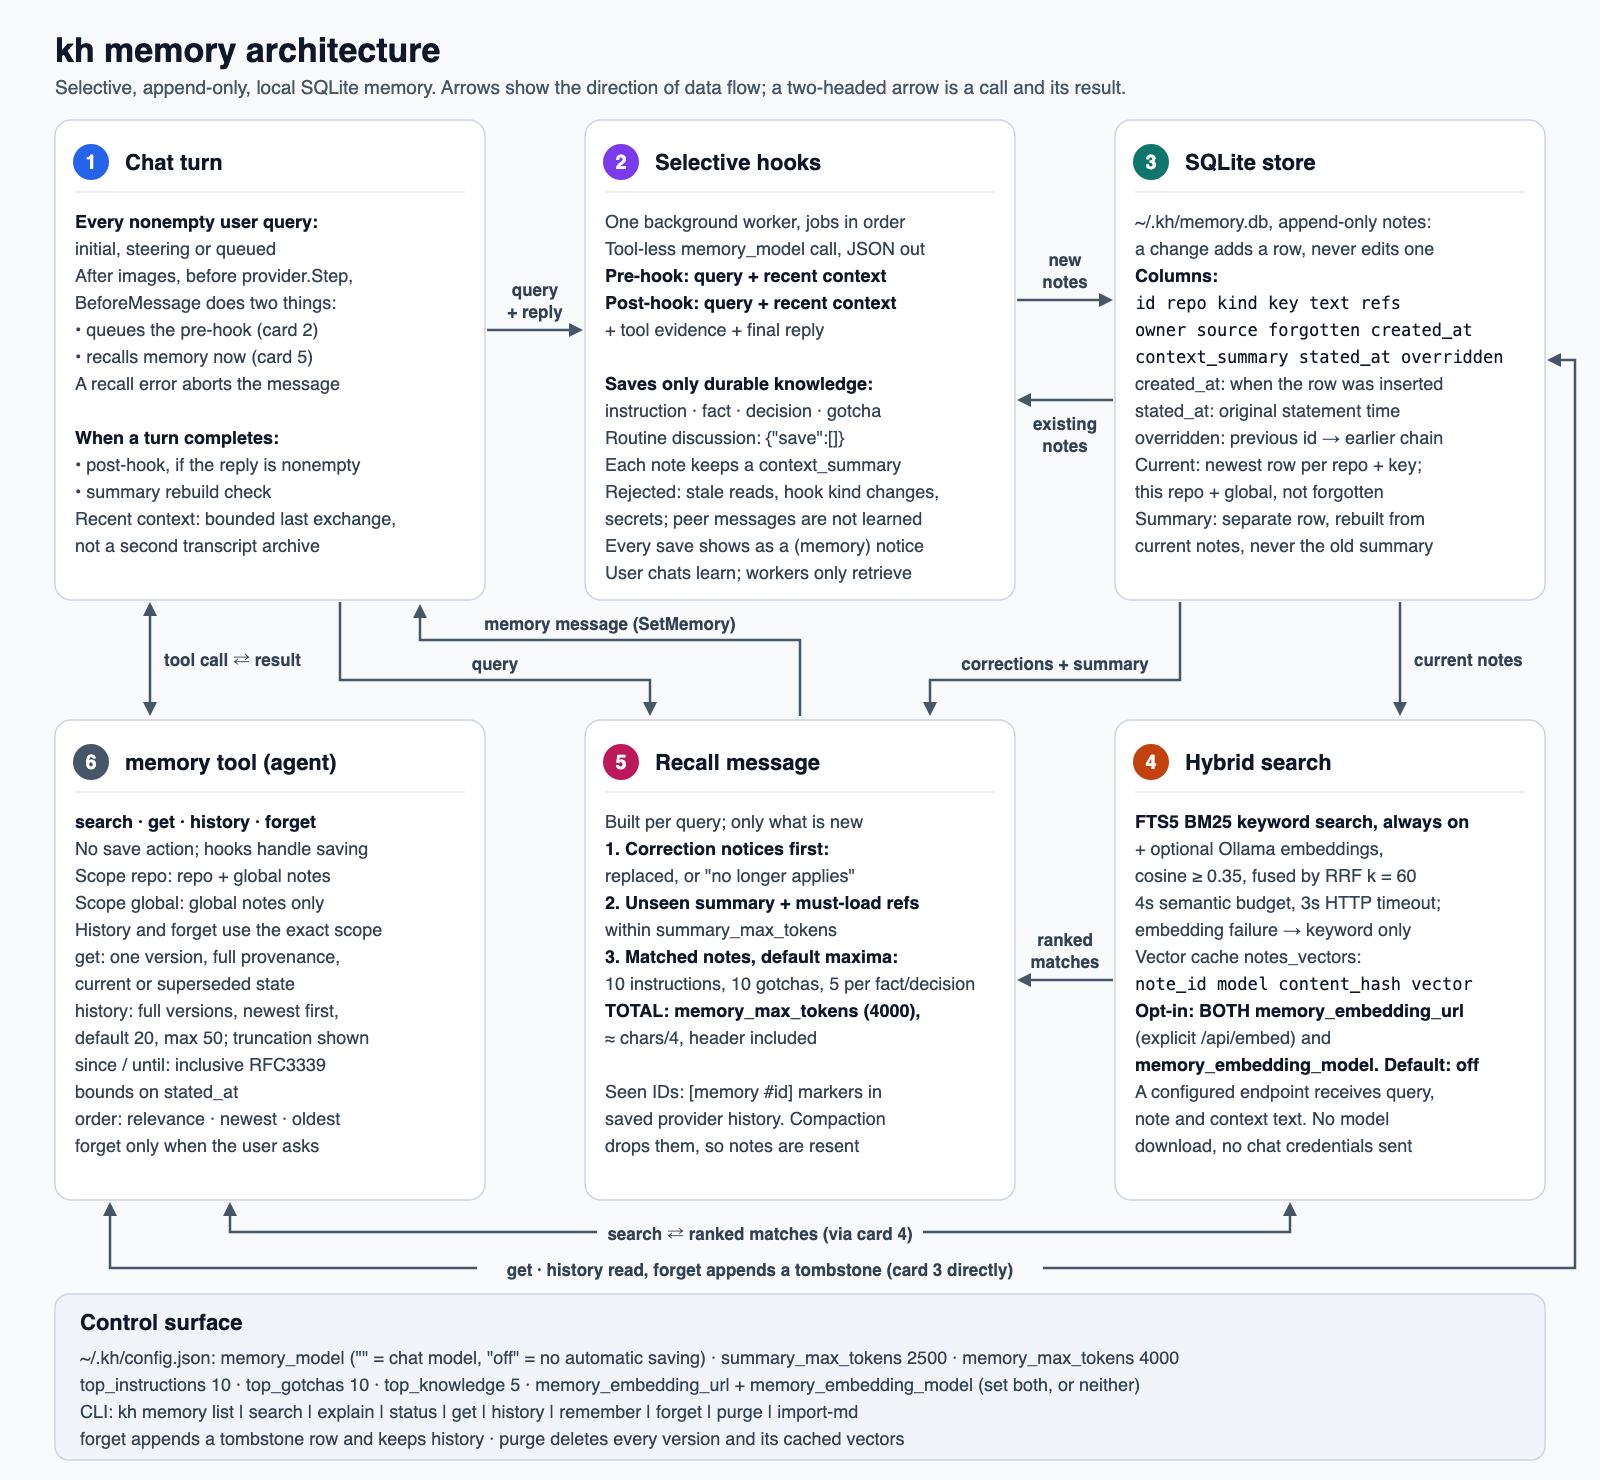
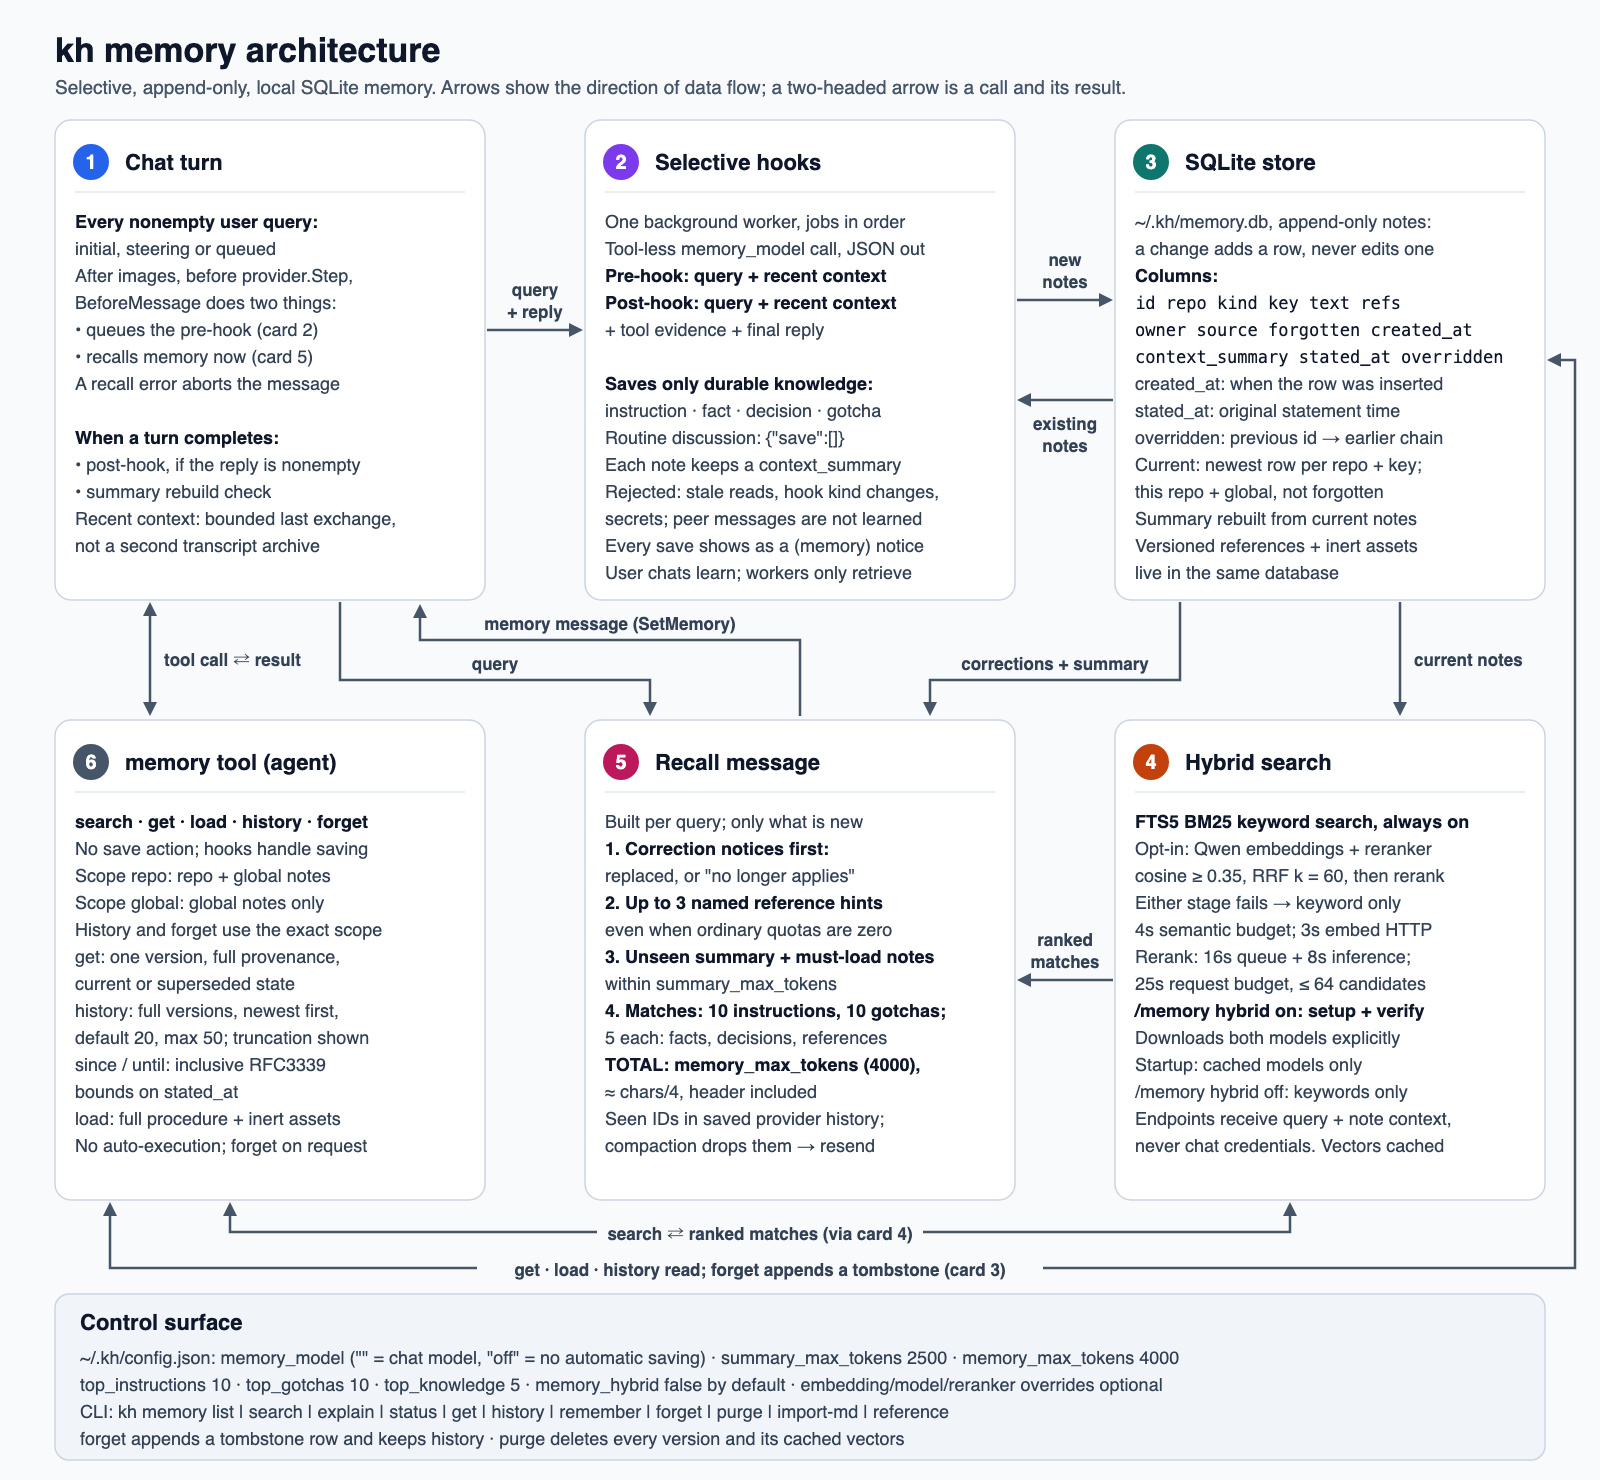
Fix hybrid worker bursts and refresh docs and release notes

diff --git a/internal/tools/test/sandbox_memory_test.go b/internal/tools/test/sandbox_memory_test.go
@@ -39,6 +39,85 @@ func TestSandboxMemoryHelper(t *testing.T) {
 	fmt.Println("MEMORY_WRITE_OK")
 }
 
+func TestSandboxHybridAlwaysWritable(t *testing.T) {
+	if runtime.GOOS != "darwin" {
+		t.Skip("sandbox is macOS only")
+	}
+	if out, err := exec.Command("/usr/bin/sandbox-exec", "-p", "(version 1)(allow default)", "/usr/bin/true").CombinedOutput(); err != nil {
+		t.Skipf("sandbox-exec cannot start in this environment: %v: %s", err, out)
+	}
+	for _, mode := range []string{"new-directory", "existing-directory", "symlink-directory"} {
+		t.Run(mode, func(t *testing.T) {
+			t.Chdir(t.TempDir())
+			t.Setenv("HOME", t.TempDir())
+			dir := config.Dir()
+			if mode == "existing-directory" {
+				if err := os.Mkdir(dir, 0o700); err != nil {
+					t.Fatal(err)
+				}
+			}
+			if mode == "symlink-directory" {
+				if err := os.Symlink(t.TempDir(), dir); err != nil {
+					t.Fatal(err)
+				}
+			}
+			cfg := config.Defaults
+			cfg.Auto, cfg.Sandbox, cfg.Writable = true, true, []string{}
+			root := filepath.Join(dir, "hybrid")
+			// Exercise runtime startup and setup writes, with no model downloads.
+			for _, name := range []string{"runtime.lock", "runtime.log", "venv/bin/python", "cache/model/weights"} {
+				path := filepath.Join(root, name)
+				command := "mkdir -p " + strconv.Quote(filepath.Dir(path)) + " && printf created > " + strconv.Quote(path)
+				out, err := bashWithSandbox(t, cfg, command)
+				data, readErr := os.ReadFile(path)
+				if err != nil || readErr != nil || string(data) != "created" {
+					t.Fatalf("sandbox blocked hybrid %s: %v: %s; read %q: %v", name, err, out, data, readErr)
+				}
+			}
+			// Existing and new siblings remain protected, including prefix matches.
+			for _, name := range []string{"config.json", "auth.json", "other", "hybrid-backup"} {
+				path := filepath.Join(dir, name)
+				if err := os.WriteFile(path, []byte("unchanged"), 0o600); err != nil {
+					t.Fatal(err)
+				}
+				for _, target := range []string{path, path + ".new"} {
+					out, err := bashWithSandbox(t, cfg, "printf modified > "+strconv.Quote(target))
+					if err != nil || !strings.Contains(out, "Operation not permitted") {
+						t.Fatalf("expected denied write to %s: %v: %s", target, err, out)
+					}
+				}
+				data, err := os.ReadFile(path)
+				if err != nil || string(data) != "unchanged" {
+					t.Fatalf("protected file changed: %s: %q %v", name, data, err)
+				}
+				if _, err := os.Stat(path + ".new"); !os.IsNotExist(err) {
+					t.Fatalf("protected sibling created: %s: %v", path, err)
+				}
+			}
+			// Symlinks inside hybrid must not grant writes outside its subtree.
+			if err := os.Symlink(dir, filepath.Join(root, "escape")); err != nil {
+				t.Fatal(err)
+			}
+			assertDenied := func(path string) {
+				t.Helper()
+				out, err := bashWithSandbox(t, cfg, "printf modified > "+strconv.Quote(path))
+				if err != nil || !strings.Contains(out, "Operation not permitted") {
+					t.Fatalf("expected denied symlink write to %s: %v: %s", path, err, out)
+				}
+			}
+			assertDenied(filepath.Join(root, "escape", "config.json"))
+			// Nor may resolving the hybrid root itself accidentally grant all .kh.
+			if err := os.Rename(root, root+"-saved"); err != nil {
+				t.Fatal(err)
+			}
+			if err := os.Symlink(dir, root); err != nil {
+				t.Fatal(err)
+			}
+			assertDenied(filepath.Join(root, "auth.json"))
+		})
+	}
+}
+
 func TestSandboxMemoryAlwaysWritable(t *testing.T) {
 	if runtime.GOOS != "darwin" {
 		t.Skip("sandbox is macOS only")

diff --git a/internal/hybrid/test/helper_test.py b/internal/hybrid/test/helper_test.py
@@ -107,6 +107,30 @@ class ServerTests(unittest.TestCase):
             self.assertFalse(second.is_alive())
         self.assertEqual(sorted(responses), [200, 200])
 
+    def test_three_worker_burst_completes_within_client_budget(self):
+        # Scale wall time, preserving the production queue/inference ratio.
+        # Each worker uses less than half the inference budget; two can still
+        # occupy the lock long enough to reject the third with the old limits.
+        scale = 0.025
+        duration = runtime.INFERENCE_SECONDS * scale * 0.55
+        barrier = threading.Barrier(3)
+        responses = []
+        def score(q, docs):
+            time.sleep(duration)
+            return [{"index": 0, "relevance_score": 0.5}]
+        def request():
+            barrier.wait()
+            responses.append(self.request(data={"query": "q", "documents": ["d"]})[0])
+        runtime.Handler.scorer = staticmethod(score)
+        with patch.object(runtime, "LOCK_WAIT_SECONDS", runtime.LOCK_WAIT_SECONDS * scale):
+            workers = [threading.Thread(target=request) for _ in range(3)]
+            for worker in workers:
+                worker.start()
+            for worker in workers:
+                worker.join(2)
+                self.assertFalse(worker.is_alive())
+        self.assertEqual(sorted(responses), [200, 200, 200])
+
     def test_queue_exhaustion_is_bounded_and_does_not_block_health(self):
         with patch.object(runtime, "LOCK_WAIT_SECONDS", 0.05, create=True):
             runtime.Handler.inference_lock.acquire()
@@ -189,7 +213,7 @@ class ModelTests(unittest.TestCase):
         # neither may another document start after it expires.
         for documents in (["memory a"], ["memory a", "memory b"]):
             with patch.dict("sys.modules", torch=torch, transformers=transformers):
-                with patch.object(runtime.time, "monotonic", side_effect=[0, 0, 5]):
+                with patch.object(runtime.time, "monotonic", side_effect=[0, 0, runtime.INFERENCE_SECONDS + 1]):
                     with self.assertRaises(TimeoutError):
                         score("find my preference", documents)
         self.assertEqual([r["relevance_score"] for r in results], [0.8, 0.8])

diff --git a/internal/memory/test/rerank_test.go b/internal/memory/test/rerank_test.go
@@ -137,6 +137,13 @@ func TestRerankFailureReturnsLexicalOnly(t *testing.T) {
 			if len(notices) != 1 || !strings.Contains(strings.ToLower(notices[0]), "keyword") || strings.Contains(notices[0], "private") {
 				t.Fatalf("unsafe or repeated notices: %q", notices)
 			}
+			stage := "reranking"
+			if failure == "semantic" || failure == "no-embedder" {
+				stage = "embedding"
+			}
+			if !strings.Contains(notices[0], stage+" stage") {
+				t.Errorf("notice must identify %s stage: %q", stage, notices[0])
+			}
 		})
 	}
 }
@@ -236,7 +243,7 @@ func TestHTTPRerankerAllowsQueuedInference(t *testing.T) {
 		inference.Lock()
 		defer inference.Unlock()
 		select {
-		case <-time.After(2100 * time.Millisecond):
+		case <-time.After(3100 * time.Millisecond):
 			fmt.Fprint(w, `{"results":[{"index":0,"relevance_score":0.5}]}`)
 		case <-r.Context().Done():
 		}
@@ -246,16 +253,16 @@ func TestHTTPRerankerAllowsQueuedInference(t *testing.T) {
 	if err != nil {
 		t.Fatal(err)
 	}
-	ctx, cancel := context.WithTimeout(context.Background(), 10*time.Second)
+	ctx, cancel := context.WithTimeout(context.Background(), 12*time.Second)
 	defer cancel()
-	done := make(chan error, 2)
-	for i := 0; i < 2; i++ {
+	done := make(chan error, 3)
+	for i := 0; i < 3; i++ {
 		go func() {
 			_, err := r.Rerank(ctx, "car", []memory.Note{{Text: "safe"}})
 			done <- err
 		}()
 	}
-	for i := 0; i < 2; i++ {
+	for i := 0; i < 3; i++ {
 		if err := <-done; err != nil {
 			t.Errorf("queued inference failed: %v", err)
 		}
@@ -270,7 +277,7 @@ func TestSearchRerankDeadlineAllowsQueueAndInference(t *testing.T) {
 		called = true
 		deadline, ok := ctx.Deadline()
 		remaining := time.Until(deadline)
-		if !ok || remaining < 7500*time.Millisecond || remaining > 8*time.Second {
+		if !ok || remaining < 24*time.Second || remaining > 25*time.Second {
 			t.Errorf("rerank deadline must allow bounded queue and inference: %v (set=%v)", remaining, ok)
 		}
 		return (&fakeReranker{}).Rerank(ctx, query, notes)

diff --git a/internal/memory/rerank.go b/internal/memory/rerank.go
@@ -46,13 +46,13 @@ func (s *Store) rerankConfig() *rerankState {
 	return s.reranker
 }
 
-func (r *rerankState) failed() {
+func (r *rerankState) failed(stage string) {
 	r.mu.Lock()
 	notify := !r.warned && r.notice != nil
 	r.warned = true
 	r.mu.Unlock()
 	if notify {
-		r.notice("Hybrid retrieval unavailable; using keyword search.")
+		r.notice("Hybrid retrieval unavailable (" + stage + " stage); using keyword search.")
 	}
 }
 
@@ -93,6 +93,9 @@ func validScores(scores []float64, count int) bool {
 	return true
 }
 
+// Covers the managed service's 16s queue + 8s inference, plus HTTP overhead.
+const rerankTimeout = 25 * time.Second
+
 type httpReranker struct {
 	endpoint string
 	client   *http.Client
@@ -106,7 +109,7 @@ func NewHTTPReranker(endpoint string) (Reranker, error) {
 		return nil, fmt.Errorf("memory: reranker endpoint must be an HTTP(S) URL without credentials, query or fragment")
 	}
 	return &httpReranker{endpoint: u.String(), client: &http.Client{
-		Timeout:       8 * time.Second,
+		Timeout:       rerankTimeout,
 		CheckRedirect: func(_ *http.Request, _ []*http.Request) error { return http.ErrUseLastResponse },
 	}}, nil
 }

diff --git a/internal/memory/search.go b/internal/memory/search.go
@@ -112,7 +112,7 @@ func (s *Store) search(ctx context.Context, repo, kind, query string, limit int,
 	hybridFailed := reranker != nil && (err != nil || s.semanticConfig() == nil)
 	if hybridFailed {
 		semantic = nil
-		reranker.failed()
+		reranker.failed("embedding")
 		if trace != nil {
 			trace.RerankFallback = true
 		}
@@ -193,14 +193,14 @@ func (s *Store) search(ctx context.Context, repo, kind, query string, limit int,
 		}
 		appendCandidates(false)
 		if len(batch) > 0 {
-			rctx, stop := context.WithTimeout(ctx, 8*time.Second)
+			rctx, stop := context.WithTimeout(ctx, rerankTimeout)
 			scores, rerankErr := rerankCandidates(rctx, reranker, query, batch)
 			stop()
 			if ctx.Err() != nil {
 				return nil, ctx.Err()
 			}
 			if rerankErr != nil {
-				reranker.failed()
+				reranker.failed("reranking")
 				if trace != nil {
 					trace.RerankFallback = true
 				}

diff --git a/internal/tools/bash.go b/internal/tools/bash.go
@@ -169,6 +169,10 @@ func sandboxProfile(dirs []string, resolve bool) []string {
 			dir = resolved
 		}
 		p += ") (allow file-write-create (literal " + strconv.Quote(dir) + ")) (allow file-write*"
+		// Hybrid's lock, logs, venv and model cache are also managed state.
+		// Resolve .kh above, but not hybrid: following a hybrid symlink could
+		// accidentally grant writes to config/auth or an unrelated directory.
+		p += " (subpath " + strconv.Quote(filepath.Join(dir, "hybrid")) + ")"
 		for _, suffix := range []string{"", "-wal", "-shm", "-journal"} {
 			p += " (literal " + strconv.Quote(filepath.Join(dir, "memory.db")+suffix) + ")"
 		}

diff --git a/internal/hybrid/reranker.py b/internal/hybrid/reranker.py
@@ -13,8 +13,10 @@ from http.server import BaseHTTPRequestHandler, ThreadingHTTPServer
 
 MODEL = "Qwen/Qwen3-Reranker-0.6B"
 MAX_BODY = 2 * 1024 * 1024
-LOCK_WAIT_SECONDS = 4
-INFERENCE_SECONDS = 4
+# Allow a burst of three full-budget workers: two queued, one inferring.
+# Keep the Go client's 25s deadline above the combined 24s service budget.
+LOCK_WAIT_SECONDS = 16
+INFERENCE_SECONDS = 8
 
 
 def download(cache):

diff --git a/README.md b/README.md
@@ -38,6 +38,8 @@ Run `./kh --help` for CLI options; use `/help` in chat for commands. Ask kh to i
 
 Session startup automatically rebuilds the invoked executable from local sources and runs the new build. This requires Go, the kh source checkout, and a writable executable directory. Set `KH_SOURCE_DIR=/path/to/kshitij-harness` if sources moved, or `KH_AUTO_REBUILD=0` to skip rebuilding. Failed builds stop startup without replacing the old binary. Existing running chats are unchanged; restart and resume to use updates.
 
+See [release notes](RELEASE_NOTES.md) for recent changes.
+
 ## Configuration and safety
 
 Optionally create `~/.kh/config.json`, specifying only overrides:
@@ -54,8 +56,12 @@ On macOS, shell reads are allowed wherever OS permissions permit; writes are san
 
 kh selectively saves lasting instructions, established facts, accepted decisions, and gotchas in `~/.kh/memory.db`; it does not archive every discussion into memory. Notes keep discussion context, statement/save timestamps, and links to the versions they replace. Repo and global scopes remain separate. Delegated workers read shared memory; user-facing chats learn from exchanges. Use `kh memory status`, `search`, `get`, or `history` to inspect them; `kh memory explain "query"` shows retrieval candidates and fallback status. Saved chats live separately in `~/.kh/sessions`.
 
-Search uses keywords by default, with no model downloads. `/memory hybrid on` explicitly downloads and verifies the local embedding model and reranker before enabling hybrid retrieval; `/memory hybrid off` immediately restores keyword-only retrieval without deleting models or vectors. Open chats pick up mode changes on their next message. Optional `memory_embedding_url`, `memory_embedding_model`, and `memory_reranker_url` settings override the local defaults. Startup only uses cached models; embedding or reranking failures fall back to keywords with a notice. `memory_max_tokens` bounds injected memory (estimated as characters/4); context and history are fetched on demand.
+Search uses keywords by default, with no model downloads. Optional hybrid mode requires Ollama and Python 3.10+ with venv support. `/memory hybrid on` explicitly downloads and verifies Qwen3-Embedding 0.6B and Qwen3-Reranker 0.6B before enabling hybrid retrieval; `/memory hybrid off` immediately restores keyword-only retrieval without deleting models or vectors. Open chats pick up mode changes on their next message. Optional `memory_embedding_url`, `memory_embedding_model`, and `memory_reranker_url` settings override the local defaults. Startup only uses cached models; embedding or reranking failures fall back to keywords with a notice. `memory_max_tokens` bounds injected memory (estimated as characters/4); context and history are fetched on demand. Managed runtime files live in `~/.kh/hybrid`, which remains writable under the shell sandbox without granting access to config or login files.
+
+If hybrid retrieval falls back, the notice identifies the embedding or reranking stage. `kh memory explain "query"` reports which stages fell back; `/memory hybrid on` retries setup and verification. Reranking waits up to 16 seconds for busy workers and allows 8 seconds for inference, within a 25-second request budget. Keyword-only mode needs neither service.
 
 Named procedural references keep full procedures and inert script assets in the same database. Names, aliases, and topics retrieve compact hints; the memory tool's `load` action fetches the full item on demand. `kh memory reference demo` stores a sound example without playing it. Use `reference put/get/export/import/asset` to manage individual versioned references; imports never execute assets or overwrite existing topics. Execute requested assets only through normal approved, sandboxed commands—not during retrieval.
+
+See the [memory architecture](memory-architecture.png) for retrieval, saving, and reference-loading flows.
 
 Ask kh to delegate work using native agents. Workers share project files: assign separate files or coordinate edits. Their tmux panes close after successful tasks; failures stay visible, and `keep` retains a worker for follow-ups.

diff --git a/RELEASE_NOTES.md b/RELEASE_NOTES.md
@@ -1,0 +1,18 @@
+# Release notes
+
+User-facing changes in kh, newest first.
+
+## 2026-10-23
+
+### Memory
+
+- Added opt-in hybrid retrieval with local Qwen3-Embedding 0.6B and Qwen3-Reranker 0.6B. `/memory hybrid on` sets up and verifies both; `/memory hybrid off` restores keyword-only search without deleting cached models or vectors.
+- Added database-native procedural references with names, aliases, version history, and shareable exports. Full procedures and inert script assets load on demand; retrieval and imports never execute them.
+- Fixed reranker queue exhaustion during worker bursts. Queue and inference limits now fit within the client deadline, with cancellation and keyword fallback preserved.
+- Allowed managed hybrid runtime files through the macOS shell sandbox without granting writes to config, login files, or unrelated folders.
+- Fallback notices now distinguish embedding failures from reranking failures.
+
+### Chat and documentation
+
+- Interactive chat and automatic command/folder approval are now the defaults. Use `-p "TASK"` for headless work or `--auto=false` for approval prompts; sandbox restrictions still apply.
+- Updated the README and memory architecture diagram for hybrid setup, reranking, and procedural references.
